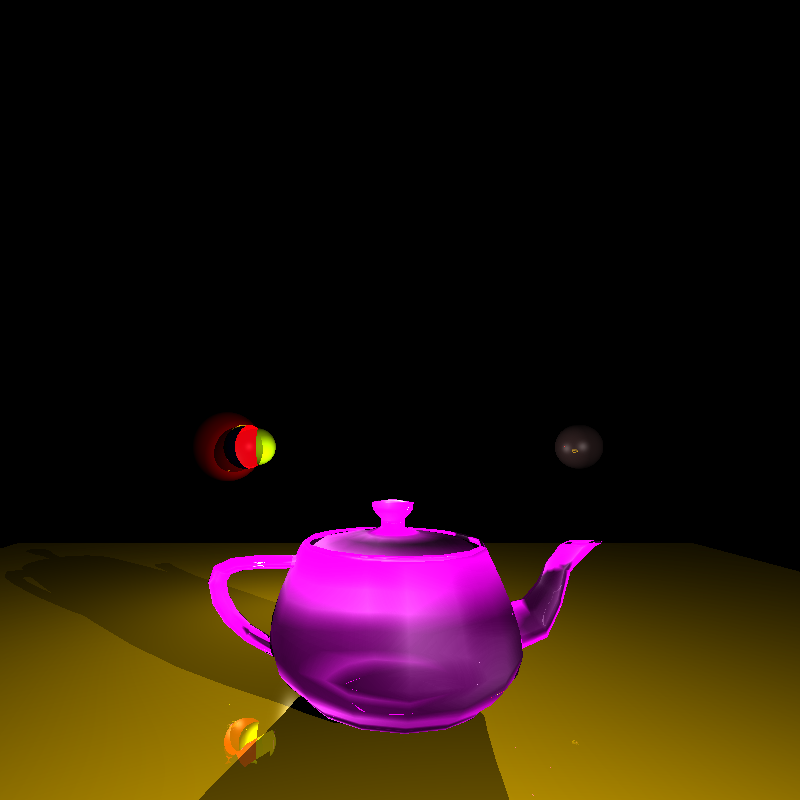
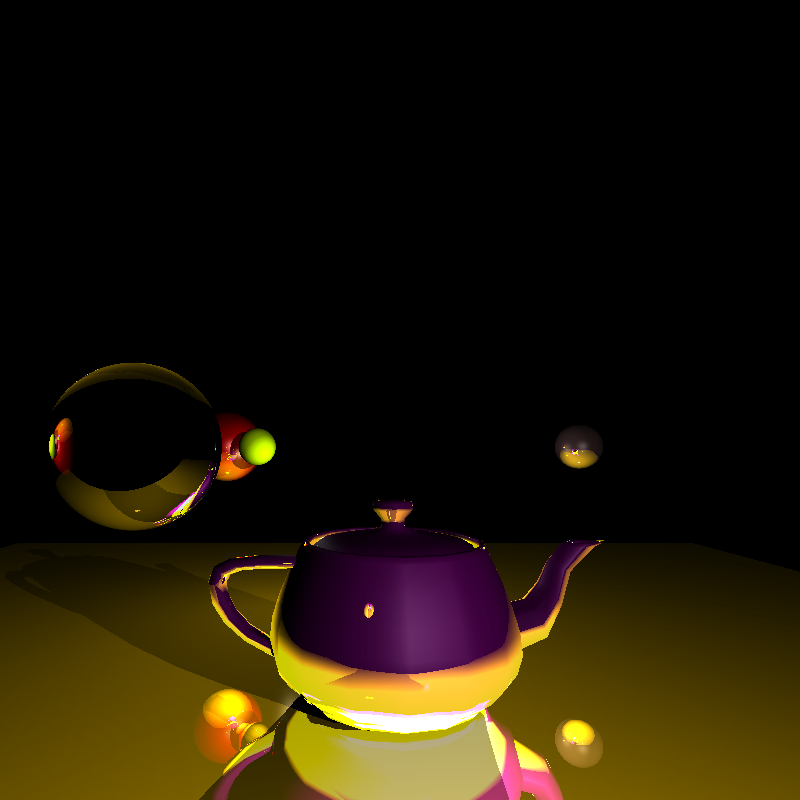
"Changes in reflection and refraction"

Changed region(s): [[0.0, 0.625, 1.0, 1.0], [0.0625, 0.4375, 0.3438, 0.6875], [0.6875, 0.5625, 0.75, 0.5938]]

diff --git a/src/edu/up/isgc/cg/raytracer/Raytracer.java b/src/edu/up/isgc/cg/raytracer/Raytracer.java
@@ -28,13 +28,13 @@ public class Raytracer {
         /*scene02.addLight(new DirectionalLight(new Vector3D(0.0, 0.0, 1.0), Color.WHITE, 0.8));*/
         scene02.addObject(new Sphere(new Vector3D(0.0, 1.0, 5.0), 0.5, Color.RED, 8, 0.5, false));
         scene02.addObject(new Sphere(new Vector3D(0.5, 1.0, 4.5), 0.25, new Color(200, 255, 0), 7.7, 0.0, false));
-        scene02.addObject(new Sphere(new Vector3D(0.35, 1.0, 4.5), 0.3, Color.BLUE, 8.0, 0.9, true));
+        scene02.addObject(new Sphere(new Vector3D(0.8, 1.0, -1), 0.3, Color.BLUE, 8.0, 0.9, true));
         scene02.addObject(new Sphere(new Vector3D(4.85, 1.0, 4.5), 0.3, Color.PINK, 5.0, 0.8, false));
         //scene02.addObject(OBJReader.getModel3D("Cube.obj", new Vector3D(0f, -2.5, 1.0), Color.WHITE, 4.0, 0.3));
         //scene02.addObject(OBJReader.getModel3D("CubeQuad.obj", new Vector3D(-3.0, 0.5, 3.0), Color.GREEN, 9.0, 0.1));
-        scene02.addObject(OBJReader.getModel3D("SmallTeapot.obj", new Vector3D(2.0, -1.0, 1.5), Color.magenta, 2.0, 0.7, true));
+        scene02.addObject(OBJReader.getModel3D("SmallTeapot.obj", new Vector3D(2.0, -1.0, 1.5), Color.magenta, 2.0, 0.8, false));
         //scene02.addObject(OBJReader.getModel3D("Ring.obj", new Vector3D(-2.0, 2.0, 2), Color.ORANGE, 3,0.7));
-        scene02.addObject(OBJReader.getModel3D("Plano.obj", new Vector3D(2.0, -1.0, 1.5), Color.orange, 100.0, 0.3, false));
+        scene02.addObject(OBJReader.getModel3D("Plano.obj", new Vector3D(2.0, -1.0, 1.5), Color.orange, 100.0, 0.5, false));
 
 
         BufferedImage image = raytrace(scene02);
@@ -169,9 +169,10 @@ public class Raytracer {
 
         Intersection reflectionIntersection = raycast(reflectionRay, objects, intersection.getObject(), clippingPlanes);
 
-        if (reflectionIntersection != null && reflectionDepth <= 2 && reflectionIntersection.getObject().getReflectivity() > 0) {
+        if (reflectionIntersection != null && reflectionDepth <= 2 ) {
             reflectionDepth += 1;
-            Color reflectionColor = getSpecularColor(lights, reflectionRay, objects, clippingPlanes, reflectionDepth, reflectionIntersection.getObject());
+            //Color reflectionColor = getSpecularColor(lights, reflectionRay, objects, clippingPlanes, reflectionDepth, reflectionIntersection.getObject());
+            Color reflectionColor = getSpecularColor(lights, reflectionRay, objects, clippingPlanes, reflectionDepth, intersection.getObject());
             double reflectivity = reflectionIntersection.getObject().getReflectivity();
             reflectionColor = new Color(
                     (float) Math.clamp(reflectionColor.getRed() * reflectivity / 255.0, 0.0, 1.0),
@@ -186,8 +187,8 @@ public class Raytracer {
     }
 
     private static Color calculateRefraction(Vector3D incidenceV, double refractionIndex1, Vector3D surfaceNormal,
-                                                double refractionIndex2, Intersection closestIntersection, List<Object3D> objects,
-                                                double[] clippingPlanes, List<Light> lights, int reflectionDepth) {
+                                             double refractionIndex2, Intersection closestIntersection, List<Object3D> objects,
+                                             double[] clippingPlanes, List<Light> lights, int reflectionDepth) {
 
         double eta1 = refractionIndex1, eta2 = refractionIndex2;
         double c1 = Math.clamp(Vector3D.dotProduct(surfaceNormal, incidenceV), -1.0, 1.0);
@@ -206,10 +207,13 @@ public class Raytracer {
         if (k < 0) {
             refractiveV = new Vector3D(0, 0, 0);
         } else {
-            refractiveV =  Vector3D.add(Vector3D.scalarMultiplication(incidenceV, eta), Vector3D.scalarMultiplication(surfaceNormal, eta * c1 - (double) Math.sqrt(k)));
+            refractiveV = Vector3D.add(
+                    Vector3D.scalarMultiplication(incidenceV, eta),
+                    Vector3D.scalarMultiplication(surfaceNormal, eta * c1 - Math.sqrt(k))
+            );
         }
 
-        Vector3D epsilon = Vector3D.scalarMultiplication( surfaceNormal, -1e-8);
+        Vector3D epsilon = Vector3D.scalarMultiplication(surfaceNormal, -1e-8);
         Vector3D rayOrigin = Vector3D.add(epsilon, closestIntersection.getPosition());
 
         Ray refreactiveRay = new Ray(rayOrigin, Vector3D.normalize(refractiveV));
@@ -220,9 +224,13 @@ public class Raytracer {
             refractionObj = refractiveIntersection.getObject();
         } else {
             refractionObj = null;
+            //return Color.BLACK; //RETURN BLACK?
         }
 
-        Color pixelColor = getSpecularColor(lights, refreactiveRay, objects, clippingPlanes, reflectionDepth, refractionObj);
+        //System.out.println("\nObj: " + refractionObj + "\nC1: " + c1 + "\nEta: " + eta + " \nK: " + k + " \nSurface Normal: " + surfaceNormal + "\nRefractiveV: " + refractiveV + "\n");
+
+
+        Color pixelColor = getSpecularColor(lights, refreactiveRay, objects, clippingPlanes, reflectionDepth, closestIntersection.getObject());
         return pixelColor;
 
     }
@@ -231,8 +239,7 @@ public class Raytracer {
     private static Color getSpecularColor(List<Light> lights, Ray ray, List<Object3D> objects,
                                           double[] clippingPlanes, int reflectionDepth, Object3D caster) {
 
-        Intersection closestIntersection = raycast(ray, objects, caster,
-                clippingPlanes);
+        Intersection closestIntersection = raycast(ray, objects, caster, clippingPlanes);
 
         Color pixelColor = Color.BLACK;
         if (closestIntersection != null) {
@@ -248,7 +255,7 @@ public class Raytracer {
                 }
 
                 double objReflectivity = closestIntersection.getObject().getReflectivity();
-                double objOriginalColorRatio = 1 - objReflectivity;
+                double objOriginalColorRatio = Math.clamp(1 - objReflectivity, 0, 1); //CLAMP?
 
                 double nDotL = light.getNDotL(closestIntersection);
                 Color lightColor = light.getColor();
@@ -263,7 +270,6 @@ public class Raytracer {
                 for (int colorIndex = 0; colorIndex < objColors.length; colorIndex++) {
                     objColors[colorIndex] *= intensity * lightColors[colorIndex];
                 }
-
 
                 double shine = calculateShininess(light, closestIntersection, ray);
                 Color specular = new Color(
@@ -287,27 +293,29 @@ public class Raytracer {
                 pixelColor = addColor(pixelColor, specular);
 
                 if (closestIntersection.getObject().isRefractive()) {
-                Color refraColor = calculateRefraction(ray.getDirection(),1,closestIntersection.getNormal(),1.5,
-                        closestIntersection, objects, clippingPlanes, lights, reflectionDepth);
+                    Color refraColor = calculateRefraction(ray.getDirection(), 1.0, closestIntersection.getNormal(), 1.4,
+                            closestIntersection, objects, clippingPlanes, lights, reflectionDepth);
 
                     refraColor = new Color(
                             (float) Math.clamp(refraColor.getRed() * objReflectivity / 255.0, 0.0, 1.0),
                             (float) Math.clamp(refraColor.getGreen() * objReflectivity / 255.0, 0.0, 1.0),
                             (float) Math.clamp(refraColor.getBlue() * objReflectivity / 255.0, 0.0, 1.0));
 
-                    pixelColor = addColor(pixelColor, refraColor);
+                    // IN THEORY, objReflectivity VARIABLE MUST NOT BE THERE
+                    pixelColor = refraColor;
 
 
-                } else if (reflectionDepth < 2) {
-                    Color reflectionColor = calculateReflection(closestIntersection, ray, objects, clippingPlanes, reflectionDepth, Color.BLACK, lights);
-
-                    reflectionColor = new Color(
-                            (float) Math.clamp(reflectionColor.getRed() * objReflectivity / 255.0, 0.0, 1.0),
-                            (float) Math.clamp(reflectionColor.getGreen() * objReflectivity / 255.0, 0.0, 1.0),
-                            (float) Math.clamp(reflectionColor.getBlue() * objReflectivity / 255.0, 0.0, 1.0));
-
-                    pixelColor = addColor(pixelColor, reflectionColor);
                 }
+
+                Color reflectionColor = calculateReflection(closestIntersection, ray, objects, clippingPlanes, reflectionDepth, Color.BLACK, lights);
+
+                reflectionColor = new Color(
+                        (float) Math.clamp(reflectionColor.getRed() * objReflectivity / 255.0, 0.0, 1.0),
+                        (float) Math.clamp(reflectionColor.getGreen() * objReflectivity / 255.0, 0.0, 1.0),
+                        (float) Math.clamp(reflectionColor.getBlue() * objReflectivity / 255.0, 0.0, 1.0));
+
+                pixelColor = addColor(pixelColor, reflectionColor);
+
 
             }
         }
